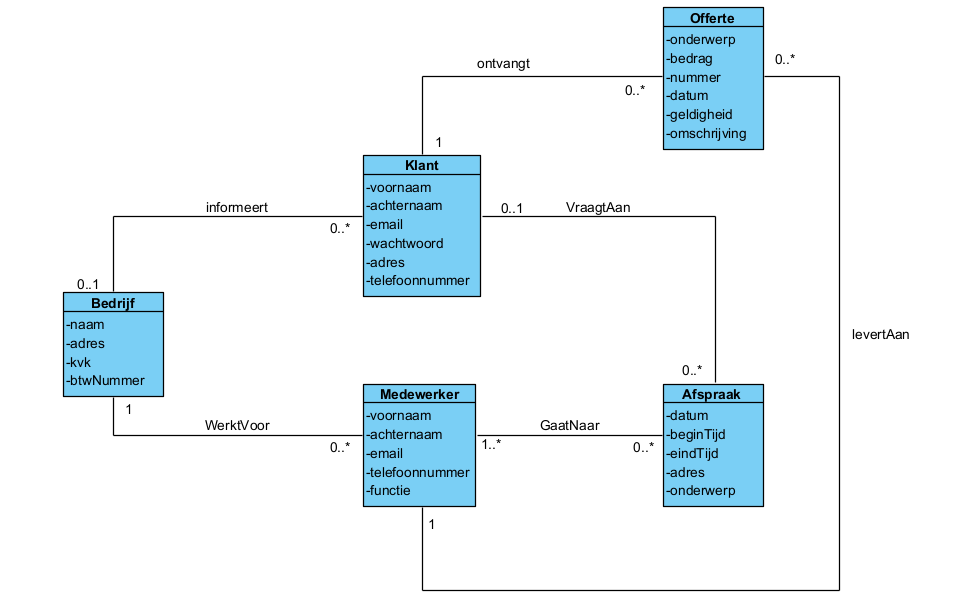
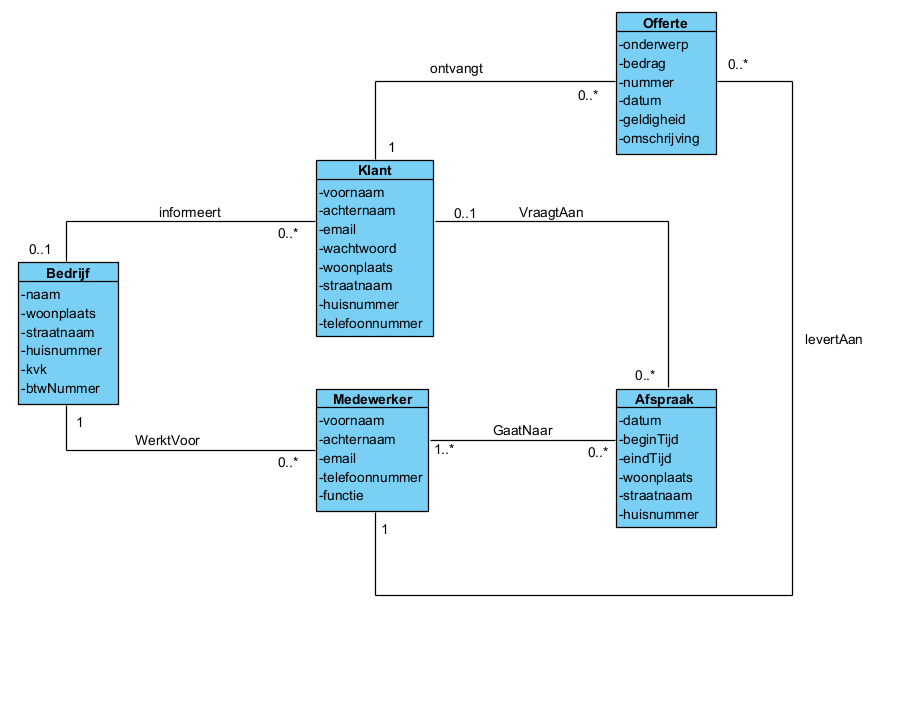
begin registratie en verder met gegevens ophalen

Changed region(s): [[0.0, 0.0, 0.9612, 0.8693], [0.4341, 0.9624, 0.8682, 0.9935]]

diff --git a/src/main/webApp/javascript/gegevens.js b/src/main/webApp/javascript/gegevens.js
@@ -1,4 +1,4 @@
-export async function addGegevens(gegevens) {
+async function addGegevens(gegevens) {
     const url = "http://localhost:8080/restservices/gegevens";
     const options = {
         method: "POST",
@@ -7,33 +7,48 @@ export async function addGegevens(gegevens) {
         },
         body: JSON.stringify(gegevens),
     }
-
-    return fetch(url, options).then((response) => response.json());
+    console.log("hello");
+    fetch(url, options).then((response) => response.json())
+        .then((gegevens) => {
+            console.log(gegevens);
+        })
+        .catch((error) => {
+            console.log(error);
+        });
 }
+
 
 async function getGegevens() {
     const url = "http://localhost:8080/restservices/gegevens";
     return fetch(url).then((response) => response.json());
 }
 
-async function laadGegevens() {
-    const gegevens = await getGegevens();
-    const persoon = gegevens[0];
-    const voornaam = persoon.voornaam;
-    const achternaam = persoon.achternaam;
-    const email = persoon.email;
-    const woonplaats = persoon.woonplaats;
-    const straatnaam = persoon.straatnaam;
-    const nummer = persoon.huisnummer;
-    const telefoonnummer = persoon.telefoonnummer;
 
-    document.getElementById("voornaam").innerHTML = voornaam;
-    document.getElementById("achternaam").innerHTML = achternaam;
-    document.getElementById("email").innerHTML = email;
-    document.getElementById("woonplaats").innerHTML = woonplaats;
-    document.getElementById("straatnaam").innerHTML = straatnaam;
-    document.getElementById("huisnummer").innerHTML = nummer;
-    document.getElementById("telefoonnummer").innerHTML = telefoonnummer
+async function laadGegevens() {
+    try {
+        const gegevens = await getGegevens();
+        const persoon = gegevens[1];
+        const voornaam = persoon.voornaam;
+        const achternaam = persoon.achternaam;
+        const email = persoon.email;
+        const woonplaats = persoon.woonplaats;
+        const straatnaam = persoon.straatnaam;
+        const nummer = persoon.huisnummer;
+        const telefoonnummer = persoon.telefoonnummer;
+
+        document.getElementById("voornaam").innerHTML = voornaam;
+        document.getElementById("achternaam").innerHTML = achternaam;
+        document.getElementById("email").innerHTML = email;
+        document.getElementById("woonplaats").innerHTML = woonplaats;
+        document.getElementById("straatnaam").innerHTML = straatnaam;
+        document.getElementById("huisnummer").innerHTML = nummer;
+        document.getElementById("telefoonnummer").innerHTML = telefoonnummer
+    } catch (Exception) {
+        console.log("no data");
+    }
 }
 
 await laadGegevens();
+// console.log("testing");
+// await addGegevens({voornaam:"Pierre", achternaam:"Koreneef", email:"phkoreneef@hotmail.com", wachtwoord:"1", woonplaats:"Bunnik", straatnaam:"Ds pasmastraat", nummer:5, telefoonnummer:"06244676398"});
+// console.log("testing 2");

diff --git a/src/main/webApp/javascript/registreren.js b/src/main/webApp/javascript/registreren.js
@@ -1,0 +1,34 @@
+const registrerenForm = document.getElementById("registerenForm");
+const registrerenButton = document.getElementById("submitRegisteren");
+
+addEventListener("submit", registreren);
+
+async function registreren(event) {
+    event.preventDefault();
+    let data = {
+        voornaam: registrerenForm.voornaam.value,
+        achternaam: registrerenForm.achternaam.value,
+        woonplaats: registrerenForm.woonplaats.value,
+        straatnaam: registrerenForm.straatnaam.value,
+        huisnummer: registrerenForm.huisnummer.value,
+        telefoonnummer: registrerenForm.telefoonnummer.value,
+        email: registrerenForm.email.value,
+        wachtwoord: registrerenForm.wachtwoord.value,
+    }
+    const url = "http://localhost:8080/restservices/klanten";
+    const options = {
+        method: "POST",
+        headers: {
+            "Content-Type": "application/json",
+        },
+        body: JSON.stringify(data),
+    }
+
+    await fetch(url, options)
+        .then((response) => response.json())
+        .then((data) => {
+            console.log(data);
+        }).catch((error) => {
+            console.log(error);
+        })
+}

diff --git a/src/main/webApp/pages/registreren.html b/src/main/webApp/pages/registreren.html
@@ -5,6 +5,7 @@
     <title>Durenbeg</title>
     <link rel="stylesheet" href="../styles/algemeen.css" />
     <link rel="stylesheet" href="../styles/registreren.css"/>
+    <script type="module" src="../javascript/registreren.js"></script>
 </head>
 <body>
     <header>
@@ -24,7 +25,7 @@
         </nav>
     </header>
     <main>
-        <form>
+        <form id="registerenForm">
             <fieldset>
                 <legend><h2>Registreren</h2></legend>
                 <label for="voornaam">Voornaam: </label>
@@ -54,7 +55,7 @@
                 <label for="herWachtwoord">Herhaling Wachtwoord: </label>
                 <input id="herWachtwoord" name="herWachtwoord" type="password" class="inputRegistreren">
                 <br><br>
-                <button type="submit" class="submitRegistreren">Submit</button>
+                <button type="submit" class="submitRegistreren" id="submitRegisteren">Submit</button>
                 <button type="reset" class="cancelRegistreren">Cancel</button>
             </fieldset>
         </form>

diff --git a/src/main/webApp/javascript/login.js b/src/main/webApp/javascript/login.js
@@ -1,4 +1,4 @@
-import {addGegevens} from "./gegevens";
+// import {addGegevens} from "./gegevens";
 
 const loginForm = document.getElementById("loginForm")
 const loginButton = document.getElementById("loginButton");
@@ -23,6 +23,26 @@ async function login(event) {
     } else {
         alert("wachtwoord of email klopt niet");
     }
+}
+
+async function addGegevens(gegevens) {
+    const url = "http://localhost:8080/restservices/gegevens";
+    const options = {
+        method: "POST",
+        headers: {
+            "Content-Type": "application/json",
+        },
+        body: JSON.stringify(gegevens),
+    }
+    console.log("hello")
+    fetch(url, options)
+        .then((response) => response.json())
+        .then((gegevens) => {
+            console.log("hello2");
+            console.log(gegevens);
+    }).catch((error) => {
+            console.log(error);
+        })
 }
 
 async function getKlanten() {

diff --git a/src/main/java/webservices/GegevensResources.java b/src/main/java/webservices/GegevensResources.java
@@ -1,19 +1,61 @@
 package webservices;
 
+import model.Bedrijf;
 import model.Klant;
 
+import javax.json.Json;
+import javax.json.JsonObject;
+import javax.json.JsonObjectBuilder;
+import javax.json.JsonReader;
 import javax.ws.rs.GET;
+import javax.ws.rs.POST;
 import javax.ws.rs.Path;
 import javax.ws.rs.Produces;
+import javax.ws.rs.core.MediaType;
+import javax.ws.rs.core.Response;
+import java.io.StringReader;
 import java.util.ArrayList;
+
+import static javax.ws.rs.core.Response.serverError;
 
 @Path("/gegevens")
 public class GegevensResources {
     @GET
     @Produces("application/json")
     public ArrayList<Klant> gegevens() {
-        //        Klant pierre = new Klant("Pierre", "Koreneef", "phkoreneef@hotmail.com", "1", "Bunnik", "Ds pasmastraat", 5, "06244676398");
-//        klanten.add(pierre);
-        return new ArrayList<>();
+        ArrayList<Klant> klanten = new ArrayList<>();
+        Klant onno = new Klant("Onno", "Koreneef", "onnokoreneef@hotmail.nl", "W@woord!", "Bennekom", "cederlaan", 5, "0638485404");
+        klanten.add(onno);
+        return klanten;
+//        return new ArrayList<>();
     }
+
+//    @POST
+//    @Produces(MediaType.APPLICATION_JSON)
+//    public String createGegevens(String jsonBody) {
+//        JsonObjectBuilder responseObject = Json.createObjectBuilder();
+//
+//        try {
+//            StringReader stringReader = new StringReader(jsonBody);
+//            JsonReader jsonReader = Json.createReader(stringReader);
+//            JsonObject jsonObject = jsonReader.readObject();
+//
+//            String voornaam = jsonObject.getString("voornaam");
+//            String achternaam = jsonObject.getString("achternaam");
+//            String email = jsonObject.getString("email");
+//            String wachtwoord = jsonObject.getString("wachtwoord");
+//            String woonplaats = jsonObject.getString("woonplaats");
+//            String straatnaam = jsonObject.getString("straatnaam");
+//            int huisnummer = jsonObject.getInt("huisnummer");
+//            String telefoonnummer = jsonObject.getString("telefoonnummer");
+//
+//            Bedrijf bedrijf = new Bedrijf();
+//
+//            bedrijf.createKlant(voornaam, achternaam, email, wachtwoord, woonplaats, straatnaam, huisnummer, telefoonnummer);
+//            responseObject.add("message", "Klant toegevoegd");
+//        } catch (Exception e) {
+//            responseObject.add("message", "Error " + e.getMessage());
+//        }
+//        return responseObject.build().toString();
+//    }
 }

diff --git a/src/main/java/webservices/KlantResources.java b/src/main/java/webservices/KlantResources.java
@@ -1,0 +1,67 @@
+package webservices;
+
+import model.Bedrijf;
+import model.Klant;
+
+import javax.json.Json;
+import javax.json.JsonObject;
+import javax.json.JsonObjectBuilder;
+import javax.json.JsonReader;
+import javax.ws.rs.*;
+import javax.ws.rs.core.MediaType;
+import javax.ws.rs.core.Response;
+import java.io.StringReader;
+import java.util.ArrayList;
+
+import static javax.ws.rs.core.Response.serverError;
+
+@Path("/klanten")
+public class KlantResources {
+    @GET
+    @Produces("application/json")
+    public ArrayList<Klant> getKlanten() {
+        ArrayList<Klant> klanten = new ArrayList<>();
+        Klant onno = new Klant("Onno", "Koreneef", "onnokoreneef@hotmail.nl", "W8woord!", "Bennekom", "Cederlaan", 5, "0638485404");
+        Klant pierre = new Klant("Pierre", "Koreneef", "phkoreneef@hotmail.com", "1", "Bunnik", "Ds pasmastraat", 5, "06244676398");
+        klanten.add(onno);
+        klanten.add(pierre);
+        return klanten;
+    }
+
+    @POST
+    @Produces(MediaType.APPLICATION_JSON)
+    public String createGegevens(String jsonBody) {
+        JsonObjectBuilder responseObject = Json.createObjectBuilder();
+
+        try {
+            StringReader stringReader = new StringReader(jsonBody);
+            JsonReader jsonReader = Json.createReader(stringReader);
+            JsonObject jsonObject = jsonReader.readObject();
+
+            String voornaam = jsonObject.getString("voornaam");
+            String achternaam = jsonObject.getString("achternaam");
+            String email = jsonObject.getString("email");
+            String wachtwoord = jsonObject.getString("wachtwoord");
+            String woonplaats = jsonObject.getString("woonplaats");
+            String straatnaam = jsonObject.getString("straatnaam");
+            int huisnummer = jsonObject.getInt("huisnummer");
+            String telefoonnummer = jsonObject.getString("telefoonnummer");
+
+            Bedrijf bedrijf = new Bedrijf();
+
+            bedrijf.createKlant(voornaam, achternaam, email, wachtwoord, woonplaats, straatnaam, huisnummer, telefoonnummer);
+            responseObject.add("message", "Klant toegevoegd");
+        } catch (Exception e) {
+            responseObject.add("message", "Error " + e.getMessage());
+        }
+        return responseObject.build().toString();
+    }
+
+//    @PUT
+//    @Path("{email}")
+//    @Produces(MediaType.APPLICATION_JSON)
+//    @Consumes(MediaType.APPLICATION_JSON)
+//    public Response updateKlant(@PathParam("email") String email, Klant klant) {
+//
+//    }
+}

diff --git a/src/main/java/model/Klant.java b/src/main/java/model/Klant.java
@@ -7,17 +7,17 @@ public class Klant {
     private String wachtwoord;
     private String woonplaats;
     private String straatnaam;
-    private int nummer;
+    private int huisnummer;
     private String telefoonnummer;
 
-    public Klant(String voornaam, String achternaam, String email, String wachtwoord, String woonplaats, String straatnaam, int nummer, String telefoonnummer) {
+    public Klant(String voornaam, String achternaam, String email, String wachtwoord, String woonplaats, String straatnaam, int huisnummer, String telefoonnummer) {
         this.voornaam = voornaam;
         this.achternaam = achternaam;
         this.email = email;
         this.wachtwoord = wachtwoord;
         this.woonplaats = woonplaats;
         this.straatnaam = straatnaam;
-        this.nummer = nummer;
+        this.huisnummer = huisnummer;
         this.telefoonnummer = telefoonnummer;
     }
 
@@ -45,13 +45,11 @@ public class Klant {
         return straatnaam;
     }
 
-    public int getNummer() {
-        return nummer;
+    public int getHuisnummer() {
+        return huisnummer;
     }
 
     public String getTelefoonnummer() {
         return telefoonnummer;
     }
-
-
 }

diff --git a/src/main/java/model/Bedrijf.java b/src/main/java/model/Bedrijf.java
@@ -1,12 +1,5 @@
 package model;
 
-import javax.ws.rs.GET;
-import javax.ws.rs.Path;
-import javax.ws.rs.PathParam;
-import javax.ws.rs.Produces;
-import javax.ws.rs.core.MediaType;
-import javax.ws.rs.core.Response;
-import javax.xml.bind.annotation.XmlRootElement;
 import java.util.ArrayList;
 import java.util.List;
 
@@ -30,6 +23,12 @@ public class Bedrijf {
         this.btwNummer = btwNummer;
     }
 
+    public Bedrijf() {}
+
+    public Bedrijf getBedrijf() {
+        return this;
+    }
+
     public void addMedewerker(Medewerker medewerker) {
         medewerkers.add(medewerker);
     }
@@ -44,5 +43,10 @@ public class Bedrijf {
 
     public List<Klant> getKlanten() {
         return klanten;
+    }
+
+    public void createKlant(String voornaam, String achternaam, String email, String wachtwoord, String woonplaats, String straatnaam, int huisnummer, String telefoonnummer){
+        Klant klant = new Klant(voornaam, achternaam, email, wachtwoord, woonplaats, straatnaam, huisnummer, telefoonnummer);
+        klanten.add(klant);
     }
 }
